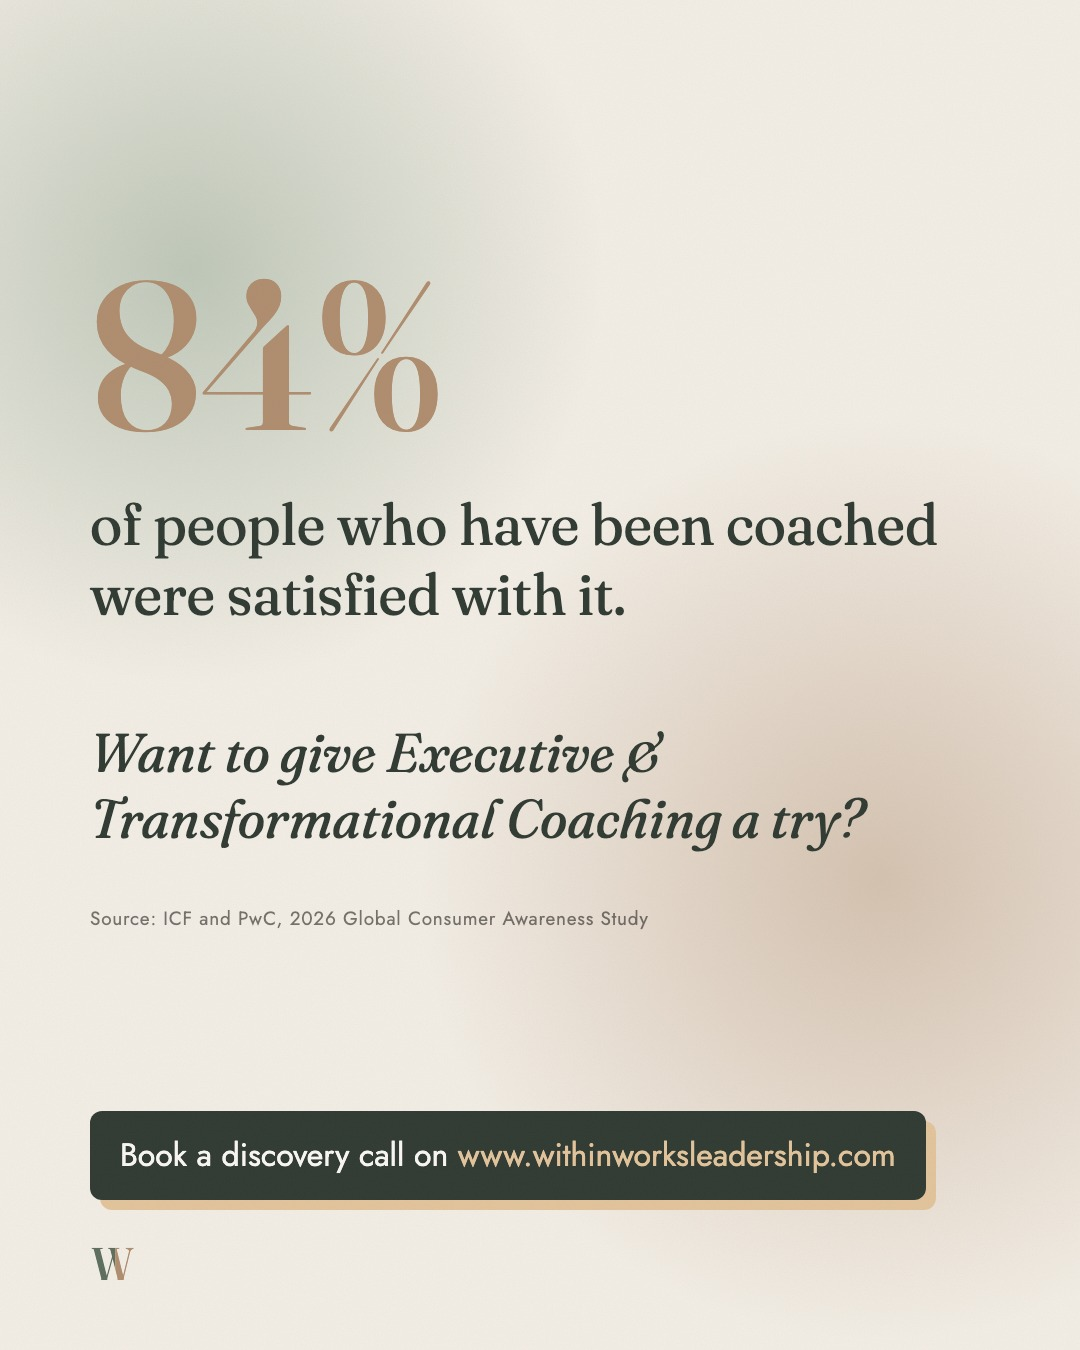
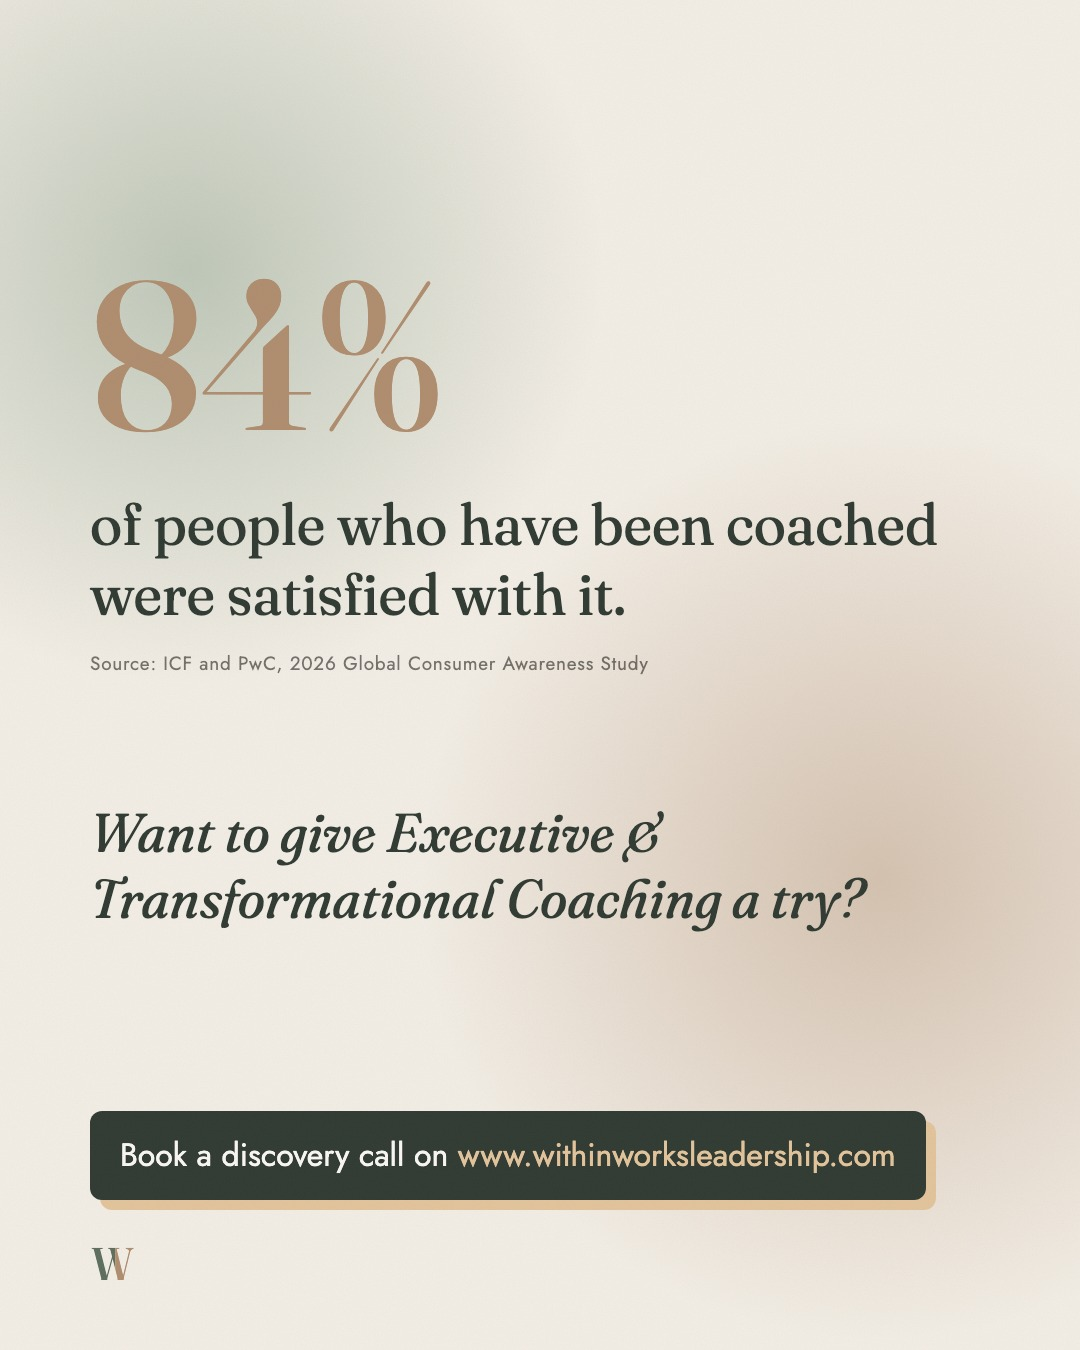
16 Dec: source under the stat

diff --git a/content/index.html b/content/index.html
@@ -203,7 +203,7 @@ Book a discovery call on www.withinworksleadership.com</div><button class="ig-mo
 <p class="eyebrow" style="margin-bottom:10px">15 &middot; <span class="when-date">Fri 11 Dec</span></p>
 <div class="ig">
   <div class="ig-head"><img src="../assets/megha.jpg" alt=""><span><b>megha.withinworks</b><small>Dubai</small></span><span class="dots">&middot;&middot;&middot;</span></div>
-  <div class="ig-media"><div class="ig-track"><img src="../posts/d1-1.jpg?v=1794838572" alt="" loading="lazy" width="1080" height="1350"><img src="../posts/d1-2.jpg?v=1794838572" alt="" loading="lazy" width="1080" height="1350"><img src="../posts/d1-3.jpg?v=1794838573" alt="" loading="lazy" width="1080" height="1350"></div><span class="ig-count">1/3</span><button class="ig-arrow prev" aria-label="Previous" hidden>&#8249;</button><button class="ig-arrow next" aria-label="Next">&#8250;</button></div>
+  <div class="ig-media"><div class="ig-track"><img src="../posts/d1-1.jpg?v=1794838800" alt="" loading="lazy" width="1080" height="1350"><img src="../posts/d1-2.jpg?v=1794838800" alt="" loading="lazy" width="1080" height="1350"><img src="../posts/d1-3.jpg?v=1794838801" alt="" loading="lazy" width="1080" height="1350"></div><span class="ig-count">1/3</span><button class="ig-arrow prev" aria-label="Previous" hidden>&#8249;</button><button class="ig-arrow next" aria-label="Next">&#8250;</button></div>
   <div class="ig-bar"><svg viewBox="0 0 24 24" class=""><path d="M12 21s-7.5-4.6-9.3-9.2C1.4 8.4 3.6 5 7 5c2 0 3.4 1.1 5 3 1.6-1.9 3-3 5-3 3.4 0 5.6 3.4 4.3 6.8C19.5 16.4 12 21 12 21z"/></svg><svg viewBox="0 0 24 24" class=""><path d="M20.5 12a8.5 8.5 0 0 1-12.4 7.5L3.5 21l1.5-4.4A8.5 8.5 0 1 1 20.5 12z"/></svg><svg viewBox="0 0 24 24" class=""><path d="M22 3 9.2 10.1M22 3l-7 18-3.8-8.6L2 9.5 22 3z"/></svg><div class="copyrow"><button class="copy" type="button" title="Copy caption" aria-label="Copy caption"><svg viewBox="0 0 24 24"><rect x="9" y="9" width="11" height="11" rx="2"/><path d="M5 15V6a2 2 0 0 1 2-2h9"/></svg></button><textarea class="cap-src" hidden>Starting again takes courage, whether it is after a break, in a new field or in a new country. These are the moments I see most often.
 
 Book a discovery call on www.withinworksleadership.com</textarea></div><span class="ig-pips"><i></i><i></i><i></i></span><svg viewBox="0 0 24 24" class="save"><path d="M19 21l-7-5.2L5 21V3h14z"/></svg></div>
@@ -227,7 +227,7 @@ Book a discovery call on www.withinworksleadership.com</div><button class="ig-mo
 <p class="eyebrow" style="margin-bottom:10px">17 &middot; <span class="when-date">Wed 16 Dec</span></p>
 <div class="ig">
   <div class="ig-head"><img src="../assets/megha.jpg" alt=""><span><b>megha.withinworks</b><small>Dubai</small></span><span class="dots">&middot;&middot;&middot;</span></div>
-  <div class="ig-media"><div class="ig-track"><img src="../posts/d2-1.jpg?v=1794838575" alt="" loading="lazy" width="1080" height="1350"><img src="../posts/d2-2.jpg?v=1794838576" alt="" loading="lazy" width="1080" height="1350"></div><span class="ig-count">1/2</span><button class="ig-arrow prev" aria-label="Previous" hidden>&#8249;</button><button class="ig-arrow next" aria-label="Next">&#8250;</button></div>
+  <div class="ig-media"><div class="ig-track"><img src="../posts/d2-1.jpg?v=1794838803" alt="" loading="lazy" width="1080" height="1350"><img src="../posts/d2-2.jpg?v=1794838804" alt="" loading="lazy" width="1080" height="1350"></div><span class="ig-count">1/2</span><button class="ig-arrow prev" aria-label="Previous" hidden>&#8249;</button><button class="ig-arrow next" aria-label="Next">&#8250;</button></div>
   <div class="ig-bar"><svg viewBox="0 0 24 24" class=""><path d="M12 21s-7.5-4.6-9.3-9.2C1.4 8.4 3.6 5 7 5c2 0 3.4 1.1 5 3 1.6-1.9 3-3 5-3 3.4 0 5.6 3.4 4.3 6.8C19.5 16.4 12 21 12 21z"/></svg><svg viewBox="0 0 24 24" class=""><path d="M20.5 12a8.5 8.5 0 0 1-12.4 7.5L3.5 21l1.5-4.4A8.5 8.5 0 1 1 20.5 12z"/></svg><svg viewBox="0 0 24 24" class=""><path d="M22 3 9.2 10.1M22 3l-7 18-3.8-8.6L2 9.5 22 3z"/></svg><div class="copyrow"><button class="copy" type="button" title="Copy caption" aria-label="Copy caption"><svg viewBox="0 0 24 24"><rect x="9" y="9" width="11" height="11" rx="2"/><path d="M5 15V6a2 2 0 0 1 2-2h9"/></svg></button><textarea class="cap-src" hidden>Coaching can be hard to explain until you have tried it. These four comparisons come closest.
 
 Book a discovery call on www.withinworksleadership.com</textarea></div><span class="ig-pips"><i></i><i></i></span><svg viewBox="0 0 24 24" class="save"><path d="M19 21l-7-5.2L5 21V3h14z"/></svg></div>

diff --git a/working-material.html b/working-material.html
@@ -22,11 +22,11 @@
 <section class="page-hero"><div class="shell"><p class="eyebrow">Working material</p><h1>In the <em>session</em></h1><p class="lede">The sheets Megha uses with clients, in the order she uses them.</p></div></section><section><div class="shell"><div class="card tint"><h3>How the sessions use them</h3>
 <p>The work starts with the <b>Wheel of Life</b> to see where you are, then the <b>Values Sheet</b> to name what matters, then the
 <b>Saboteurs Worksheet</b>, where your top three values show what each inner voice costs you. The client leads; curiosity comes
-before advice, and every session ends with one thing you will notice or do that week.</p></div><div class="card" style="padding:0;overflow:hidden;margin-top:24px"><img src="working-material/values.jpg?v=1794838577" alt="Values Sheet" style="width:100%;display:block;border-bottom:1px solid #eee">
+before advice, and every session ends with one thing you will notice or do that week.</p></div><div class="card" style="padding:0;overflow:hidden;margin-top:24px"><img src="working-material/values.jpg?v=1794838805" alt="Values Sheet" style="width:100%;display:block;border-bottom:1px solid #eee">
 <div style="padding:22px 26px"><p class="eyebrow">Print, A4</p><h3>Values Sheet</h3><p>Circle the words that pull you, narrow to five, then write your top three in your own words with a moment you lived each one. Ends on: which value am I honouring least right now?</p>
-<p style="margin-top:12px"><a class="btn" href="working-material/values.pdf" target="_blank" rel="noopener">Open the PDF</a></p></div></div><div class="card" style="padding:0;overflow:hidden;margin-top:24px"><img src="working-material/saboteurs.jpg?v=1794838577" alt="Saboteurs Worksheet" style="width:100%;display:block;border-bottom:1px solid #eee">
+<p style="margin-top:12px"><a class="btn" href="working-material/values.pdf" target="_blank" rel="noopener">Open the PDF</a></p></div></div><div class="card" style="padding:0;overflow:hidden;margin-top:24px"><img src="working-material/saboteurs.jpg?v=1794838805" alt="Saboteurs Worksheet" style="width:100%;display:block;border-bottom:1px solid #eee">
 <div style="padding:22px 26px"><p class="eyebrow">Print, A4</p><h3>Saboteurs Worksheet</h3><p>The old strategies that once kept you safe and now steer without permission: Controller, Pleaser, Hyper-Achiever, Restless, or your own. For each, when it shows up, what it says, what it costs and which value it sacrifices. Then: meeting your Inner Leader.</p>
-<p style="margin-top:12px"><a class="btn" href="working-material/saboteurs.pdf" target="_blank" rel="noopener">Open the PDF</a></p></div></div><div class="card" style="padding:0;overflow:hidden;margin-top:24px"><img src="working-material/wheel.jpg?v=1794838577" alt="Wheel of Life" style="width:100%;display:block;border-bottom:1px solid #eee">
+<p style="margin-top:12px"><a class="btn" href="working-material/saboteurs.pdf" target="_blank" rel="noopener">Open the PDF</a></p></div></div><div class="card" style="padding:0;overflow:hidden;margin-top:24px"><img src="working-material/wheel.jpg?v=1794838805" alt="Wheel of Life" style="width:100%;display:block;border-bottom:1px solid #eee">
 <div style="padding:22px 26px"><p class="eyebrow">Fill in on screen</p><h3>Wheel of Life</h3><p>Eight areas of life, chosen by you, each rated 1 to 10 for how satisfied you feel now. Then: which area surprised you, where is the biggest gap, and which one point would change the most.</p>
 <p style="margin-top:12px"><a class="btn" href="working-material/wheel.pdf" target="_blank" rel="noopener">Open the PDF</a></p></div></div></div></section>
 <div class="shell"><nav class="doors"><a href="./">Brain</a><a href="meetings.html">Meetings</a><a href="content/">Instagram</a><a href="linkedin/">LinkedIn</a><a href="stories/">Stories</a><a href="reel-cuts/">Reels</a><a href="printables.html">Printables</a><a href="working-material.html" class="here">Working material</a><a href="strategy.html">Strategy</a><a href="megha.html">Megha</a><a href="voice.html">Voice</a><a href="audience.html">Audience</a><a href="brand.html">Brand</a><a href="offers.html">Offers</a><a href="tech.html">Tech</a><a href="photos.html">Photos</a><a href="research.html">Research</a><a href="ideas.html">Ideas</a></nav></div>

diff --git a/linkedin/index.html b/linkedin/index.html
@@ -110,7 +110,7 @@ Book a discovery call on www.withinworksleadership.com</textarea></div></div>
 Book a discovery call on www.withinworksleadership.com</div>
   <button class="cap-edit" type="button" data-a="suggest"><svg viewBox="0 0 24 24" width="13" height="13" fill="none" stroke="currentColor" stroke-width="2" stroke-linecap="round" stroke-linejoin="round"><path d="M4 20h4L19 9l-4-4L4 16z"/><path d="M14 6l4 4"/></svg><span>Edit caption</span></button>
   <div class="li-doc"><div class="li-doc-bar">What can I help you through?</div>
-<div class="ig-media"><div class="ig-track"><img src="../posts/e1-1.jpg?v=1794838573" alt="" loading="lazy" width="1080" height="1350"><img src="../posts/e1-2.jpg?v=1794838574" alt="" loading="lazy" width="1080" height="1350"><img src="../posts/e1-3.jpg?v=1794838574" alt="" loading="lazy" width="1080" height="1350"></div><span class="ig-count">1/3</span><button class="ig-arrow prev" aria-label="Previous" hidden>&#8249;</button><button class="ig-arrow next" aria-label="Next">&#8250;</button></div></div>
+<div class="ig-media"><div class="ig-track"><img src="../posts/e1-1.jpg?v=1794838801" alt="" loading="lazy" width="1080" height="1350"><img src="../posts/e1-2.jpg?v=1794838802" alt="" loading="lazy" width="1080" height="1350"><img src="../posts/e1-3.jpg?v=1794838802" alt="" loading="lazy" width="1080" height="1350"></div><span class="ig-count">1/3</span><button class="ig-arrow prev" aria-label="Previous" hidden>&#8249;</button><button class="ig-arrow next" aria-label="Next">&#8250;</button></div></div>
   <div class="li-bar"><span>Like</span><span>Comment</span><span>Repost</span><span>Send</span><div class="copyrow"><button class="copy" type="button" title="Copy caption" aria-label="Copy caption"><svg viewBox="0 0 24 24"><rect x="9" y="9" width="11" height="11" rx="2"/><path d="M5 15V6a2 2 0 0 1 2-2h9"/></svg></button><textarea class="cap-src" hidden>Starting again takes courage, whether it is after a break, in a new field or in a new country. These are the moments I see most often.
 
 Book a discovery call on www.withinworksleadership.com</textarea></div></div>
@@ -125,7 +125,7 @@ Book a discovery call on www.withinworksleadership.com</textarea></div></div>
 Book a discovery call on www.withinworksleadership.com</div>
   <button class="cap-edit" type="button" data-a="suggest"><svg viewBox="0 0 24 24" width="13" height="13" fill="none" stroke="currentColor" stroke-width="2" stroke-linecap="round" stroke-linejoin="round"><path d="M4 20h4L19 9l-4-4L4 16z"/><path d="M14 6l4 4"/></svg><span>Edit caption</span></button>
   <div class="li-doc"><div class="li-doc-bar">How I explain coaching</div>
-<div class="ig-media"><div class="ig-track"><img src="../posts/e2-1.jpg?v=1794838576" alt="" loading="lazy" width="1080" height="1350"><img src="../posts/e2-2.jpg?v=1794838577" alt="" loading="lazy" width="1080" height="1350"></div><span class="ig-count">1/2</span><button class="ig-arrow prev" aria-label="Previous" hidden>&#8249;</button><button class="ig-arrow next" aria-label="Next">&#8250;</button></div></div>
+<div class="ig-media"><div class="ig-track"><img src="../posts/e2-1.jpg?v=1794838804" alt="" loading="lazy" width="1080" height="1350"><img src="../posts/e2-2.jpg?v=1794838805" alt="" loading="lazy" width="1080" height="1350"></div><span class="ig-count">1/2</span><button class="ig-arrow prev" aria-label="Previous" hidden>&#8249;</button><button class="ig-arrow next" aria-label="Next">&#8250;</button></div></div>
   <div class="li-bar"><span>Like</span><span>Comment</span><span>Repost</span><span>Send</span><div class="copyrow"><button class="copy" type="button" title="Copy caption" aria-label="Copy caption"><svg viewBox="0 0 24 24"><rect x="9" y="9" width="11" height="11" rx="2"/><path d="M5 15V6a2 2 0 0 1 2-2h9"/></svg></button><textarea class="cap-src" hidden>Coaching can be hard to explain until you have tried it. These four comparisons come closest.
 
 Book a discovery call on www.withinworksleadership.com</textarea></div></div>

diff --git a/printables-folders.html b/printables-folders.html
@@ -32,10 +32,10 @@
 .pf .n{display:inline-block;margin:12px 6px 0;font-size:.95rem;letter-spacing:.08em;text-transform:uppercase;color:#B4654A}
 .crumb{font-size:1.05rem;margin-bottom:6px}.crumb a{color:#B4654A;text-decoration:none}
 </style><p class="crumb"><a href="printables.html">&larr; All printables</a></p><article class="post-wrap" id="pf-a"><p class="eyebrow" style="margin-bottom:10px">Folder A · The path</p>
-<div class="card" style="padding:0;overflow:hidden"><img src="printables/fm-a.jpg?v=1794838577" alt="" style="width:100%;display:block"><img src="printables/fi-a.jpg?v=1794838577" alt="" style="width:100%;display:block">
+<div class="card" style="padding:0;overflow:hidden"><img src="printables/fm-a.jpg?v=1794838805" alt="" style="width:100%;display:block"><img src="printables/fi-a.jpg?v=1794838805" alt="" style="width:100%;display:block">
 <div style="padding:22px 26px"><p>Forest linen. A die-cut S-curve flap opens onto a pearl-green layer, the W and name in gold foil. The back carries her words, the Instagram and website QR codes and her contact details. Inside: ivory linen, with a pocket for her card and session sheets.</p><div style="margin-top:18px;padding-top:16px;border-top:1px solid rgba(0,0,0,.08)"><p class="eyebrow" style="margin-bottom:4px">Print files</p><a class="btn" href="printables/print/WithinWorks%20Folder%20A%20-%20The%20path%20-%20print%20pack%20%28CMYK%29.pdf" download style="margin:8px 8px 0 0">&darr; Print pack</a></div></div></div>
 <div class="review post" data-id="pf-a" data-rev="" data-title="Folder A · The path" style="background:none;border:0;padding:14px 0 0"></div></article><article class="post-wrap" id="pf-b"><p class="eyebrow" style="margin-bottom:10px">Folder B · The door</p>
-<div class="card" style="padding:0;overflow:hidden"><img src="printables/fm-c.jpg?v=1794838577" alt="" style="width:100%;display:block"><img src="printables/fi-c.jpg?v=1794838577" alt="" style="width:100%;display:block">
+<div class="card" style="padding:0;overflow:hidden"><img src="printables/fm-c.jpg?v=1794838805" alt="" style="width:100%;display:block"><img src="printables/fi-c.jpg?v=1794838805" alt="" style="width:100%;display:block">
 <div style="padding:22px 26px"><p>Ivory linen with an arched forest door and a brass nameplate: “What are you looking for outside?” Below the door: “The answer lies within.” The back and inside follow the same system, in the light version.</p><div style="margin-top:18px;padding-top:16px;border-top:1px solid rgba(0,0,0,.08)"><p class="eyebrow" style="margin-bottom:4px">Print files</p><a class="btn" href="printables/print/WithinWorks%20Folder%20B%20-%20The%20door%20-%20print%20pack%20%28CMYK%29.pdf" download style="margin:8px 8px 0 0">&darr; Print pack</a></div></div></div>
 <div class="review post" data-id="pf-b" data-rev="" data-title="Folder B · The door" style="background:none;border:0;padding:14px 0 0"></div></article></div></section>
 <div class="shell"><nav class="doors"><a href="./">Brain</a><a href="meetings.html">Meetings</a><a href="content/">Instagram</a><a href="linkedin/">LinkedIn</a><a href="stories/">Stories</a><a href="reel-cuts/">Reels</a><a href="printables.html" class="here">Printables</a><a href="working-material.html">Working material</a><a href="strategy.html">Strategy</a><a href="megha.html">Megha</a><a href="voice.html">Voice</a><a href="audience.html">Audience</a><a href="brand.html">Brand</a><a href="offers.html">Offers</a><a href="tech.html">Tech</a><a href="photos.html">Photos</a><a href="research.html">Research</a><a href="ideas.html">Ideas</a></nav></div>

diff --git a/printables-journal.html b/printables-journal.html
@@ -32,7 +32,7 @@
 .pf .n{display:inline-block;margin:12px 6px 0;font-size:.95rem;letter-spacing:.08em;text-transform:uppercase;color:#B4654A}
 .crumb{font-size:1.05rem;margin-bottom:6px}.crumb a{color:#B4654A;text-decoration:none}
 </style><p class="crumb"><a href="printables.html">&larr; All printables</a></p><article class="post-wrap" id="pj-a"><p class="eyebrow" style="margin-bottom:10px">Notes from Within</p>
-<div class="card" style="padding:0;overflow:hidden"><img src="printables/jn-sheet.jpg?v=1794838577" alt="" style="width:100%;display:block">
+<div class="card" style="padding:0;overflow:hidden"><img src="printables/jn-sheet.jpg?v=1794838805" alt="" style="width:100%;display:block">
 <div style="padding:22px 26px"><p>A 48-page journal, 130 x 210 mm. Five chapters, from where I am to my next step, with a note and signature from Megha up front and her details on the back. Every page at a glance below; open the PDF to read them.</p><p style="margin-top:12px"><a class="btn" href="printables/notes-from-within.pdf" target="_blank" rel="noopener">Open the full PDF</a></p><div style="margin-top:18px;padding-top:16px;border-top:1px solid rgba(0,0,0,.08)"><p class="eyebrow" style="margin-bottom:4px">Print files</p><a class="btn" href="printables/print/Notes%20from%20Within%20-%20print%20ready.pdf" download style="margin:8px 8px 0 0">&darr; Print ready</a></div></div></div>
 <div class="review post" data-id="pj-a" data-rev="" data-title="Notes from Within" style="background:none;border:0;padding:14px 0 0"></div></article></div></section>
 <div class="shell"><nav class="doors"><a href="./">Brain</a><a href="meetings.html">Meetings</a><a href="content/">Instagram</a><a href="linkedin/">LinkedIn</a><a href="stories/">Stories</a><a href="reel-cuts/">Reels</a><a href="printables.html" class="here">Printables</a><a href="working-material.html">Working material</a><a href="strategy.html">Strategy</a><a href="megha.html">Megha</a><a href="voice.html">Voice</a><a href="audience.html">Audience</a><a href="brand.html">Brand</a><a href="offers.html">Offers</a><a href="tech.html">Tech</a><a href="photos.html">Photos</a><a href="research.html">Research</a><a href="ideas.html">Ideas</a></nav></div>

diff --git a/printables.html b/printables.html
@@ -32,9 +32,9 @@
 .pf .n{display:inline-block;margin:12px 6px 0;font-size:.95rem;letter-spacing:.08em;text-transform:uppercase;color:#B4654A}
 .crumb{font-size:1.05rem;margin-bottom:6px}.crumb a{color:#B4654A;text-decoration:none}
 </style><div class="pf-grid"><a class="pf" href="printables-folders.html"><div class="pf-body">
-<div class="pf-thumb"><img src="printables/fm-a.jpg?v=1794838577" alt=""></div>
+<div class="pf-thumb"><img src="printables/fm-a.jpg?v=1794838805" alt=""></div>
 <h3>Presentation folders</h3><p>Two options for client meetings. Choose one.</p><span class="n">2 files &rarr;</span></div></a><a class="pf" href="printables-journal.html"><div class="pf-body">
-<div class="pf-thumb"><img src="printables/jn-sheet.jpg?v=1794838577" alt=""></div>
+<div class="pf-thumb"><img src="printables/jn-sheet.jpg?v=1794838805" alt=""></div>
 <h3>Journal</h3><p>Notes from Within, a journal to give clients.</p><span class="n">1 file &rarr;</span></div></a></div></div></section>
 <div class="shell"><nav class="doors"><a href="./">Brain</a><a href="meetings.html">Meetings</a><a href="content/">Instagram</a><a href="linkedin/">LinkedIn</a><a href="stories/">Stories</a><a href="reel-cuts/">Reels</a><a href="printables.html" class="here">Printables</a><a href="working-material.html">Working material</a><a href="strategy.html">Strategy</a><a href="megha.html">Megha</a><a href="voice.html">Voice</a><a href="audience.html">Audience</a><a href="brand.html">Brand</a><a href="offers.html">Offers</a><a href="tech.html">Tech</a><a href="photos.html">Photos</a><a href="research.html">Research</a><a href="ideas.html">Ideas</a></nav></div>
 <footer><div class="shell">WithinWorks Leadership &middot; Kept by Mehr Patni &middot; Private working page</div></footer>
